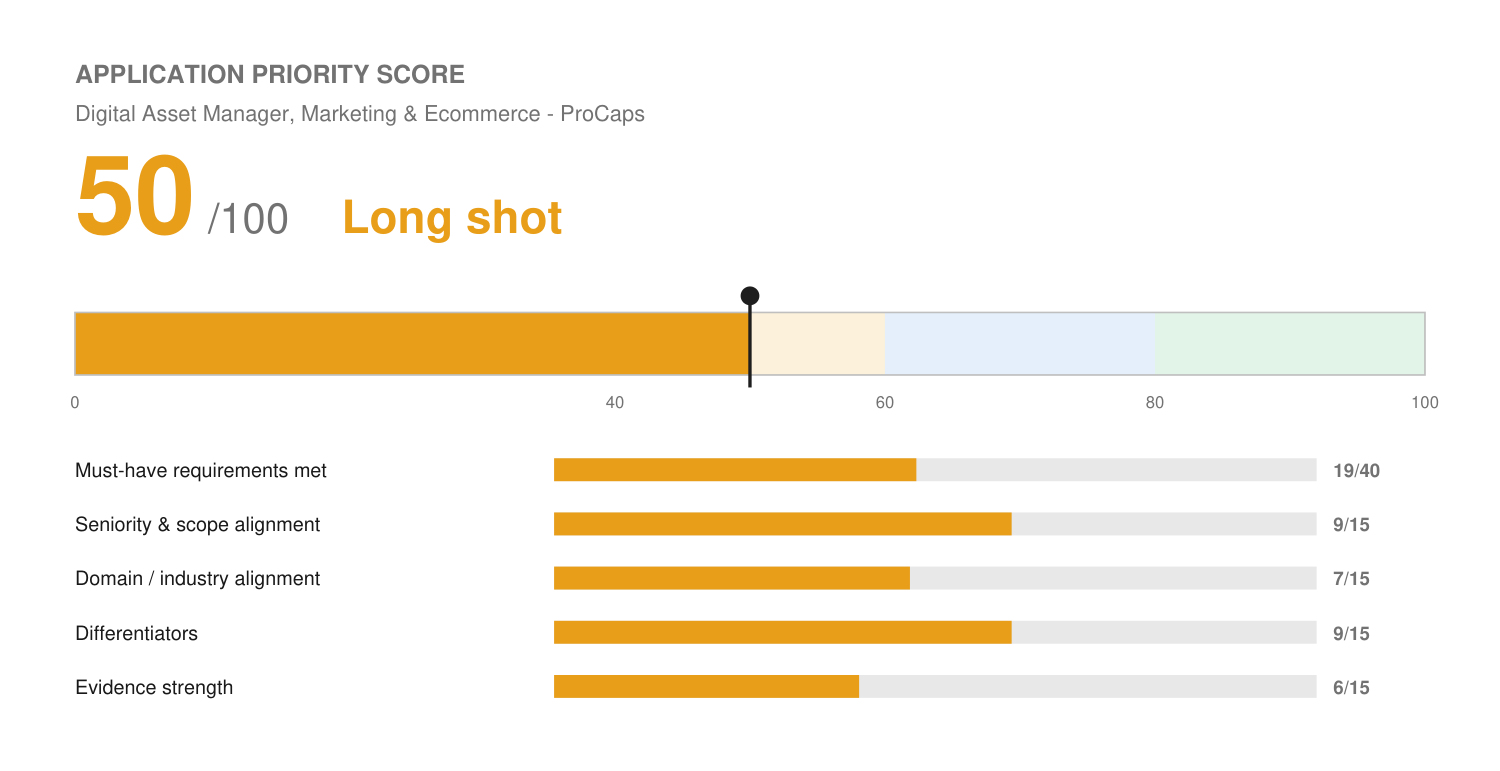
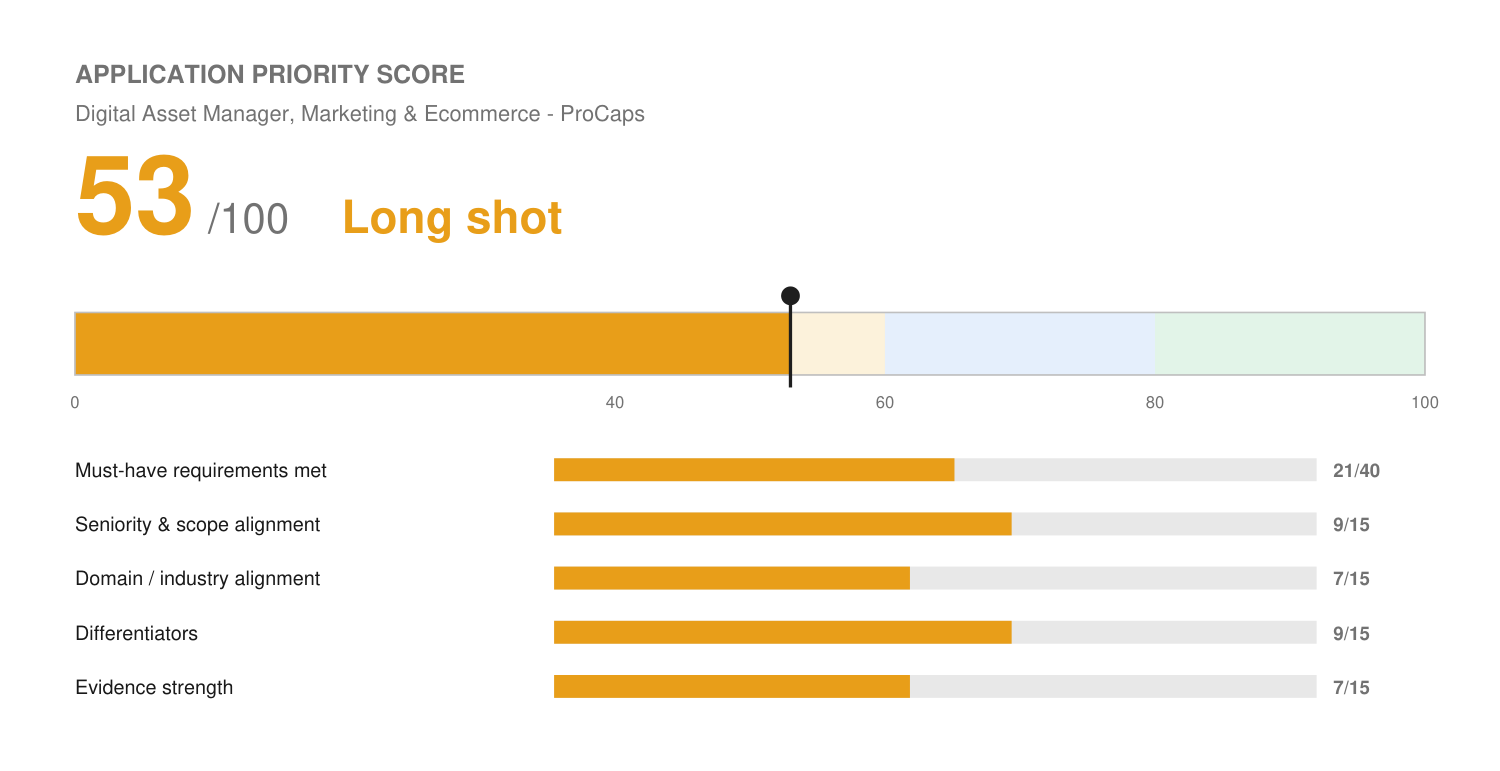
ProCaps DAM: add Dropbox/Google Drive experience (score 53); record in master profile
Claude-Session: https://claude.ai/code/session_01XE6aV5LP3W9C1iWzBfgedS

diff --git a/applications/procaps-digital-asset-manager/match-report.md b/applications/procaps-digital-asset-manager/match-report.md
@@ -22,19 +22,19 @@ No license/eligibility knockouts, but two required items (DAM years, SharePoint)
 ## Application Priority Score
 
 ```
-🟡 Application Priority Score: 50 / 100 (Long shot)
-[██████████░░░░░░░░░░]  50%
+🟡 Application Priority Score: 53 / 100 (Long shot)
+[███████████░░░░░░░░░]  53%
 ```
 
 Internal decision aid, not a prediction of any employer's system output. See `fit.png`.
 
 | Dimension | Score |
 | :--- | :--- |
-| Must-have requirements met | 19 / 40 |
+| Must-have requirements met | 21 / 40 |
 | Seniority & scope alignment | 9 / 15 |
 | Domain / industry alignment | 7 / 15 |
 | Differentiators / nice-to-haves | 9 / 15 |
-| Evidence strength | 6 / 15 |
+| Evidence strength | 7 / 15 |
 
 ## Requirement coverage (about 4 of 9 must-haves)
 
@@ -56,7 +56,7 @@ Internal decision aid, not a prediction of any employer's system output. See `fi
 3. E-commerce storefront builds for retail brands, plus automation to kill manual asset handling.
 
 ## Gaps
-- **No DAM experience or SharePoint/Brandfolder hands-on.** The biggest screen risk; SharePoint is listed as required.
+- **No dedicated DAM administration or SharePoint/Brandfolder hands-on** (Josh has used shared file libraries like Dropbox and Google Drive in every role, confirmed 2026-09-23). The biggest screen risk; SharePoint is listed as required.
 - **No Amazon or HSN/QVC** marketplace image specs.
 - **No CPG** background (retail via Wix only).
 

diff --git a/profile/master-profile.md b/profile/master-profile.md
@@ -564,7 +564,12 @@ operator talking, not like a candidate performing.
 | Sales & Account Management | Full-cycle Sales, Pipeline Management, Pipeline Stage Tracking & Forecast Hygiene, C-Suite Relationship Building, Strategic Advisory, Account Expansion |
 | Operations & Systems | Process Mapping, SOP Development, Workflow Decomposition, Project Management, Cross-functional Coordination |
 | Content & Writing | Thought Leadership, Direct Response Copy, Technical Translation, Brand Voice, Editorial Management |
-| Tools & Platforms | GoHighLevel, HubSpot, Salesforce, Notion, Slack, Asana, Monday.com, Jira, Zendesk, ClickUp, Screaming Frog, Google Apps, Procore |
+| Tools & Platforms | GoHighLevel, HubSpot, Salesforce, Notion, Slack, Dropbox, Google Drive, Asana, Monday.com, Jira, Zendesk, ClickUp, Screaming Frog, Google Apps, Procore |
+
+> **File/asset libraries (confirmed by Josh, Sep 2026):** has used shared file and asset
+> management systems (Dropbox, Google Drive, etc.) as part of every job. This is user-level
+> library work, not administration of a dedicated DAM platform (Brandfolder, Bynder, etc.);
+> SharePoint not specifically confirmed.
 
 > **Excel, Power BI, SQL, Python/JS (confirmed by Josh, Sep 2026, updated Sep 2026):**
 > Excel is a genuine, experienced-level skill, not just baseline literacy. Power BI is
